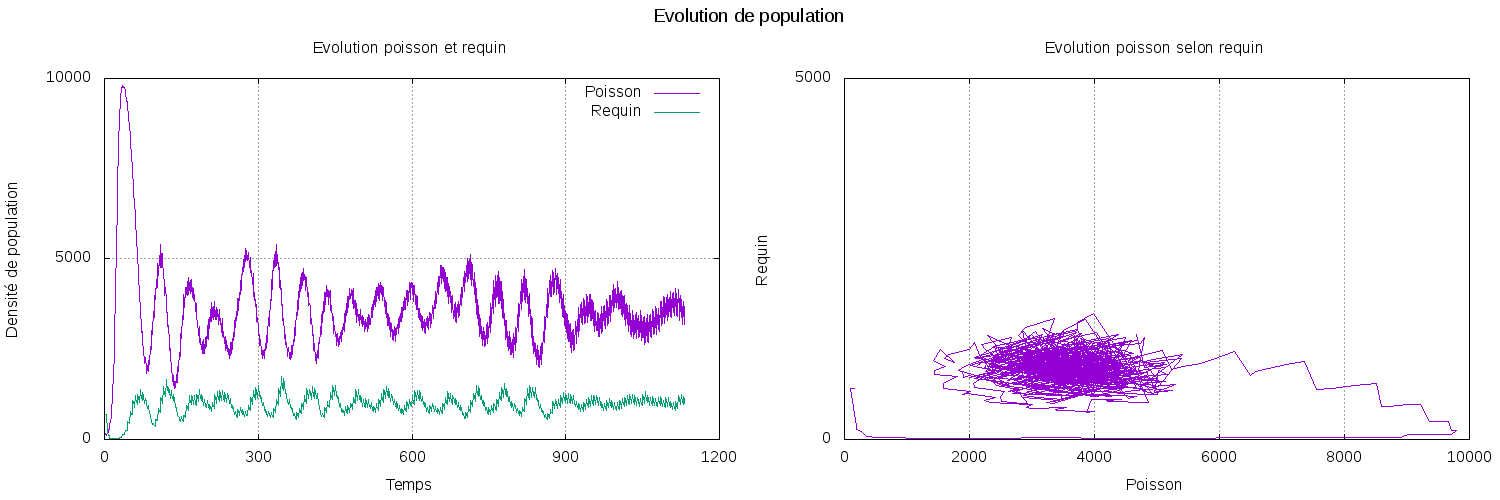
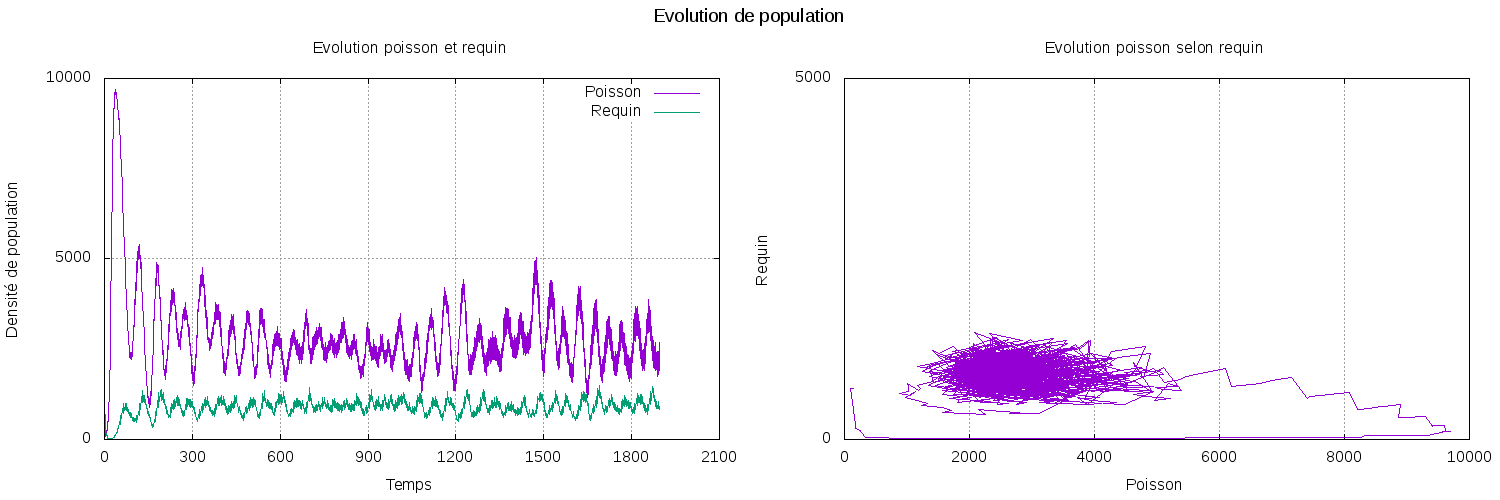
Fix of bug <3

diff --git a/src/model/core/SMA.py b/src/model/core/SMA.py
@@ -19,46 +19,25 @@ class SMA:
         self.view = view
         self.trace_file = trace_file
         self.ticks = 0;
-        self.agents = []
-
-    def update_agents(self):
-        self.agents = []
-        for l in self.environment.grid:
-            for agent in l:
-                if agent != None:
-                    self.agents.append(agent)
 
     def run(self):
         self.ticks += 1
         """ On reprend tous les agents """
         
-        self.update_agents()
-
         if self.sheduling == "sequentiel":
-            for ag in self.agents:
+            for ag in self.environment.agents:
                 ag.decide()
 
         elif self.sheduling == "equitable":
-            # A corriger
-            for l in self.environment.grid:
-                for agent in l:
-                    if agent != None:
-                        agents.append(agent)
-
-            random.shuffle(agents)
-            for agent in agents:
-                agent.decide()
+            ids = [x for x in range(len(self.environment.agents)-1)]
+            random.shuffle(ids)
+            for id_agent in ids:
+                self.environment.agents[id_agent].decide()
 
         elif self.sheduling == "aleatoire":
-            # A corriger
-            for l in self.environment.grid:
-                for agent in l:
-                    if agent != None:
-                        agents.append(agent)
-
             for _ in range(len(agents)):
                 nb_alea = random.randint(0, len(agents)-1)
-                agents[nb_alea].decide() 
+                self.environment.agents[nb_alea].decide() 
 
         if self.view != None:
             self.view.update()
@@ -66,3 +45,5 @@ class SMA:
             #self.trace_file.write("ticks;" + str(self.ticks) + "\n")
         if self.view != None:
             time.sleep(self.delay)
+
+        self.environment.update_agents()

diff --git a/src/model/core/Environment.py b/src/model/core/Environment.py
@@ -6,6 +6,7 @@ class Environment:
         self.sizeX = sizeX
         self.sizeY = sizeY
         self.grid = [[None for _ in range(sizeX)] for _ in range(sizeY)]
+        self.agents = []
         self.count = 0
         self.color = color
 
@@ -15,15 +16,26 @@ class Environment:
     def put_agent(self, agent):
         if self.grid[agent.posX][agent.posY] == None:
             self.grid[agent.posX][agent.posY] = agent
+            self.agents.append(agent)
         else:
             raise ValueError('Agent Already present at this position')
 
     """
-    Suppression d'un agent 
+    Suppression d'un agent de la grille
     """
     def remove_agent(self, agent):
         self.grid[agent.posX][agent.posY] = None
         agent.alive = False
+
+    """
+    Supprime les agents dans la liste qui ne sont pas vivants
+    """
+    def update_agents(self):
+        new_agents = []
+        for agent in self.agents:
+            if agent.alive:
+                new_agents.append(agent)
+        self.agents = new_agents
 
     """
     Calcul de la nouvelle position selon torus
